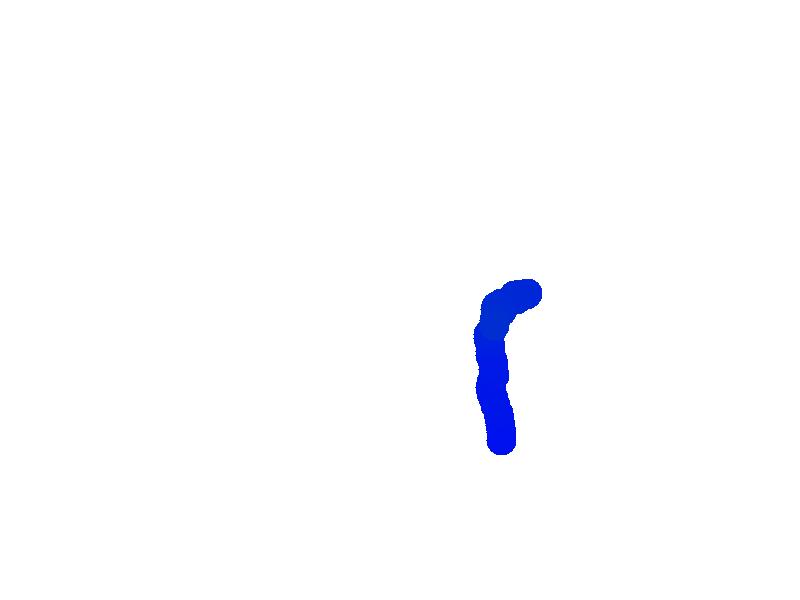
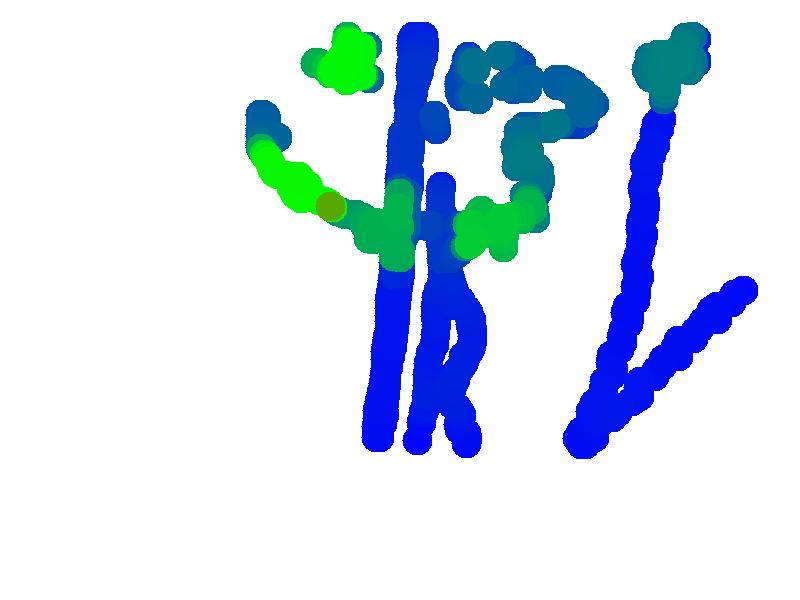
Zmiany zmiany w śledzeniu obiektów. duzo dobrej roboty.

Changed region(s): [[0.2812, 0.03, 0.9688, 0.78]]

diff --git a/src/pw/mgr/current/MyFrame.java b/src/pw/mgr/current/MyFrame.java
@@ -26,6 +26,7 @@ public class MyFrame extends JFrame{
     private JLabel videoLabelThirdScreen = new JLabel();
     private JLabel videoLabelFourthScreen = new JLabel();
     private JLabel resultLabel = new JLabel();
+    private JLabel scalaLabel = new JLabel();
 
     private JButton startButton = new JButton("Start");
     private JButton stopButton = new JButton("Stop");
@@ -39,6 +40,7 @@ public class MyFrame extends JFrame{
     private String selectedMovie;
 
     private BufferedImage paintImage = new BufferedImage(800, 600, BufferedImage.TYPE_3BYTE_BGR);
+    private BufferedImage scalaImage = new BufferedImage(100, 50, BufferedImage.TYPE_3BYTE_BGR);
 
 
     public BufferedImage getPaintImage() {
@@ -119,6 +121,19 @@ public class MyFrame extends JFrame{
         gbc.gridx = 0;
         gbc.gridy = 5;
         buttonsPanel.add(slidersPanel, gbc);
+
+        BufferedImage scalaImage = null;
+        try {
+            scalaImage = ImageIO.read(new File("resources/skala2.jpg"));
+        } catch (IOException er) {
+            er.printStackTrace();
+        }
+        ImageIcon image = new ImageIcon(scalaImage);
+        scalaLabel.setIcon(image);
+
+        gbc.gridx = 0;
+        gbc.gridy = 6;
+        buttonsPanel.add(scalaLabel, gbc);
 
         JPanel videoPanel = new JPanel();
 //        BorderLayout borderLayout = new BorderLayout();

diff --git a/src/pw/mgr/current/MyRunPrint.java b/src/pw/mgr/current/MyRunPrint.java
@@ -140,7 +140,7 @@ public class MyRunPrint extends Thread {
         cg.fillRect(0,0, 800, 600);
 
         pointToDraws.stream().forEach(objects -> {
-            objects.setCount(objects.getCount() + 10);
+            objects.setCount(objects.getCount());
             if(objects.getCount() < 255){
                 cg.setColor(new Color(0, objects.getCount(), 255 - objects.getCount()));
             }else if (objects.getCount() >= 255 && objects.getCount() < 510){
@@ -155,6 +155,12 @@ public class MyRunPrint extends Thread {
             cg.setStroke(new BasicStroke(1));
 //            cg.fillRect(objects.getRect().x, objects.getRect().y , width, height);
             cg.fillOval(objects.getRect().x, objects.getRect().y , width, height);
+//
+//            if(objects.getCount() % 10 ==0){
+//                cg.setColor(new Color(0, 0, 0));
+//                cg.drawString(objects.getCount().toString() , objects.getRect().x, objects.getRect().y);
+//
+//            }
 
 //            cg.setColor(new Color(0,0,255));
 //            cg.setBackground(new Color(0,0,255));

diff --git a/src/pw/mgr/current/MoveDetection.java b/src/pw/mgr/current/MoveDetection.java
@@ -189,7 +189,9 @@ public class MoveDetection {
 
 //        video.get( PROP_FPS)
         System.out.println("klatki per second" + video.get(Videoio.CAP_PROP_FPS));
-//        System.out.println(">>> " +  video.get(5));
+//        video.set(Videoio.CAP_PROP_FPS, 5);
+//        System.out.println("klatki per second 2 " + video.get(Videoio.CAP_PROP_FPS));
+////        System.out.println(">>> " +  video.get(5));
 
         if(k % 4 == 0) {
 
@@ -259,11 +261,11 @@ public class MoveDetection {
             }
 
 
-            if (k % 4 == 0) {
+//            if (k % 4 == 0) {
                 Core.absdiff(previousFrame, secondFrame, diffFrame);
 //                Core.subtract(previousFrame, secondFrame, diffFrame);
                 previousFrame = secondFrame.clone();
-            }
+//            }
 
 
 
